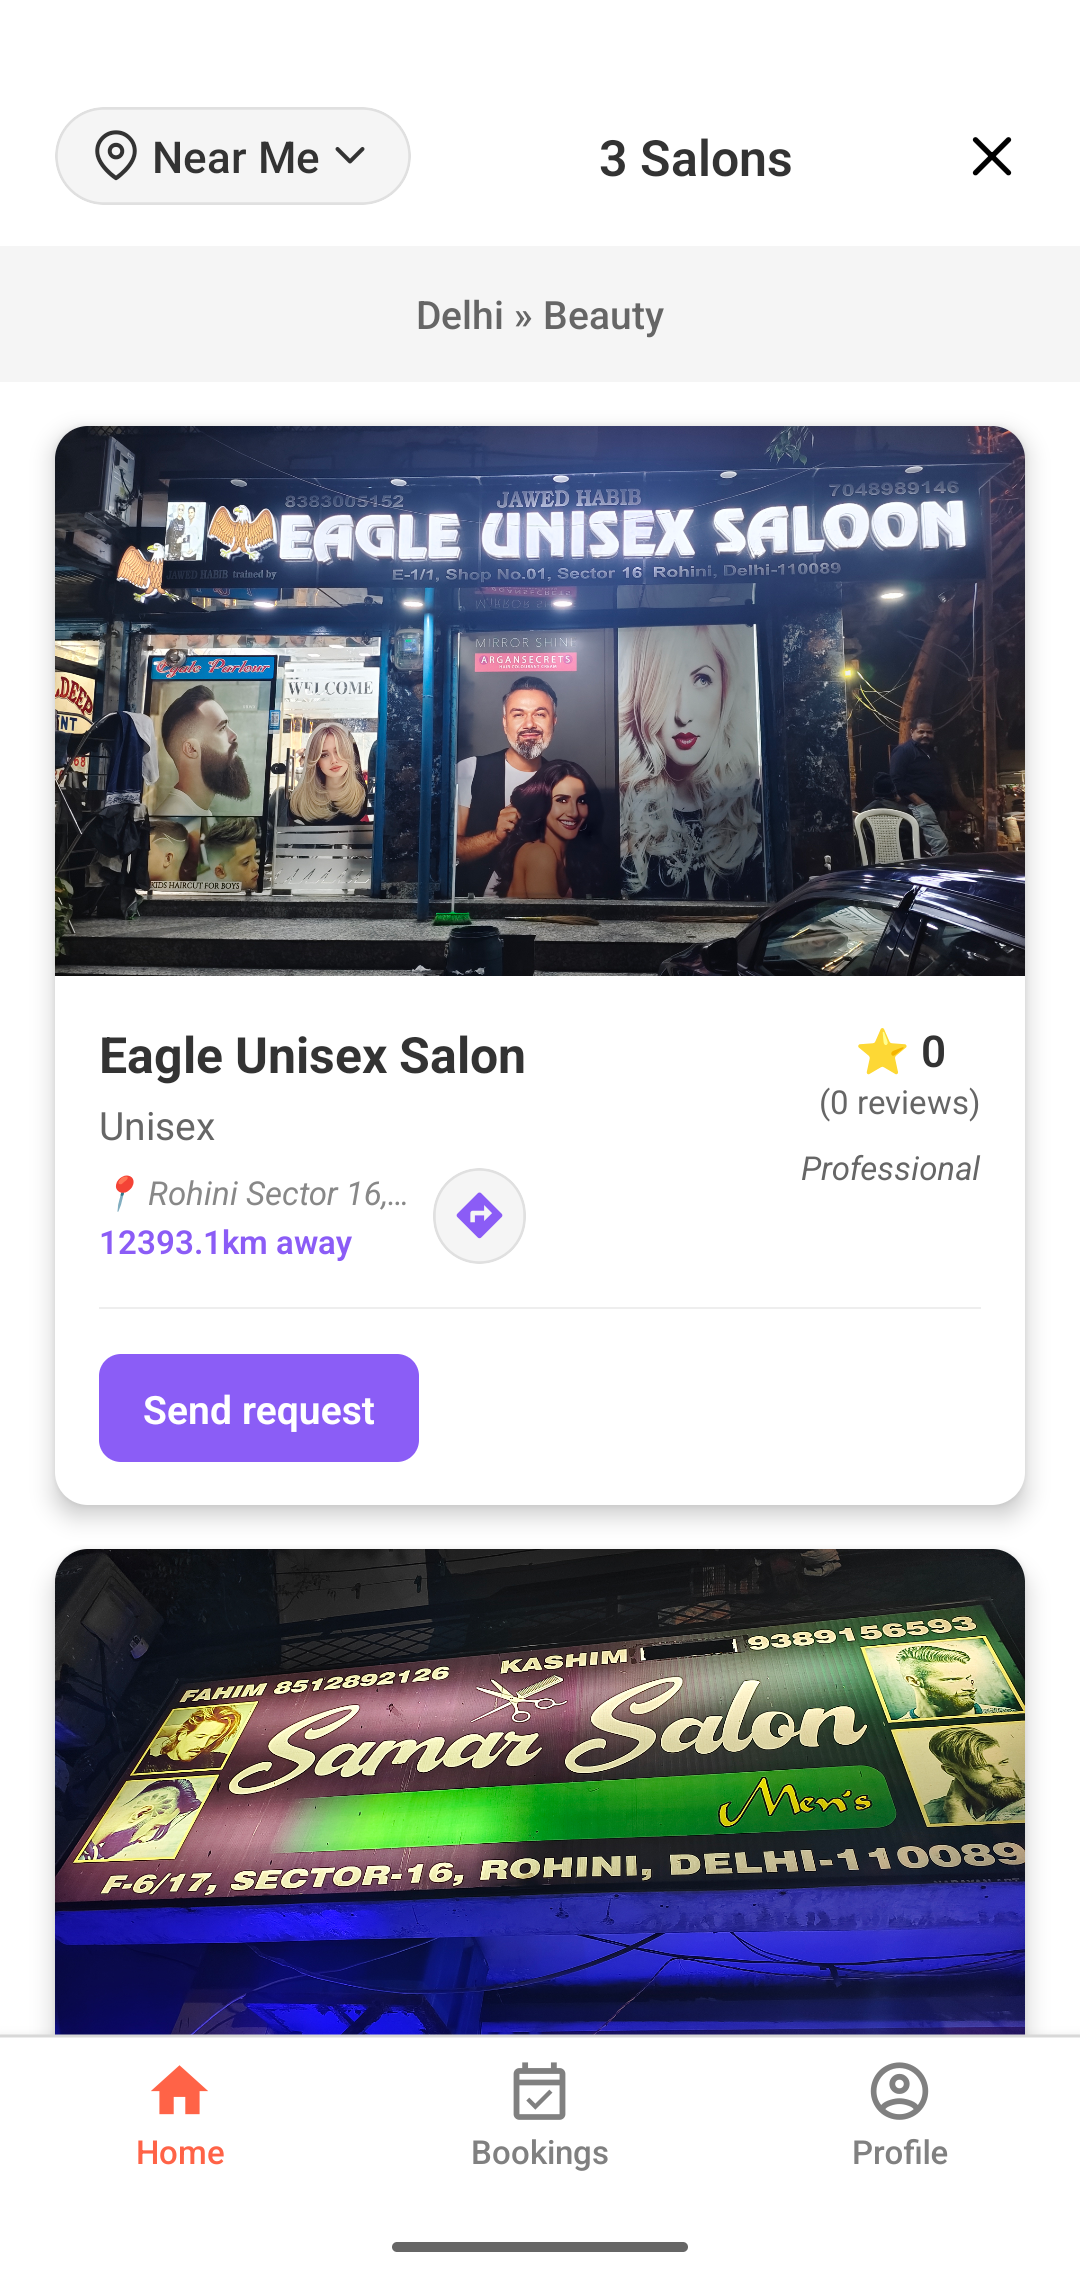
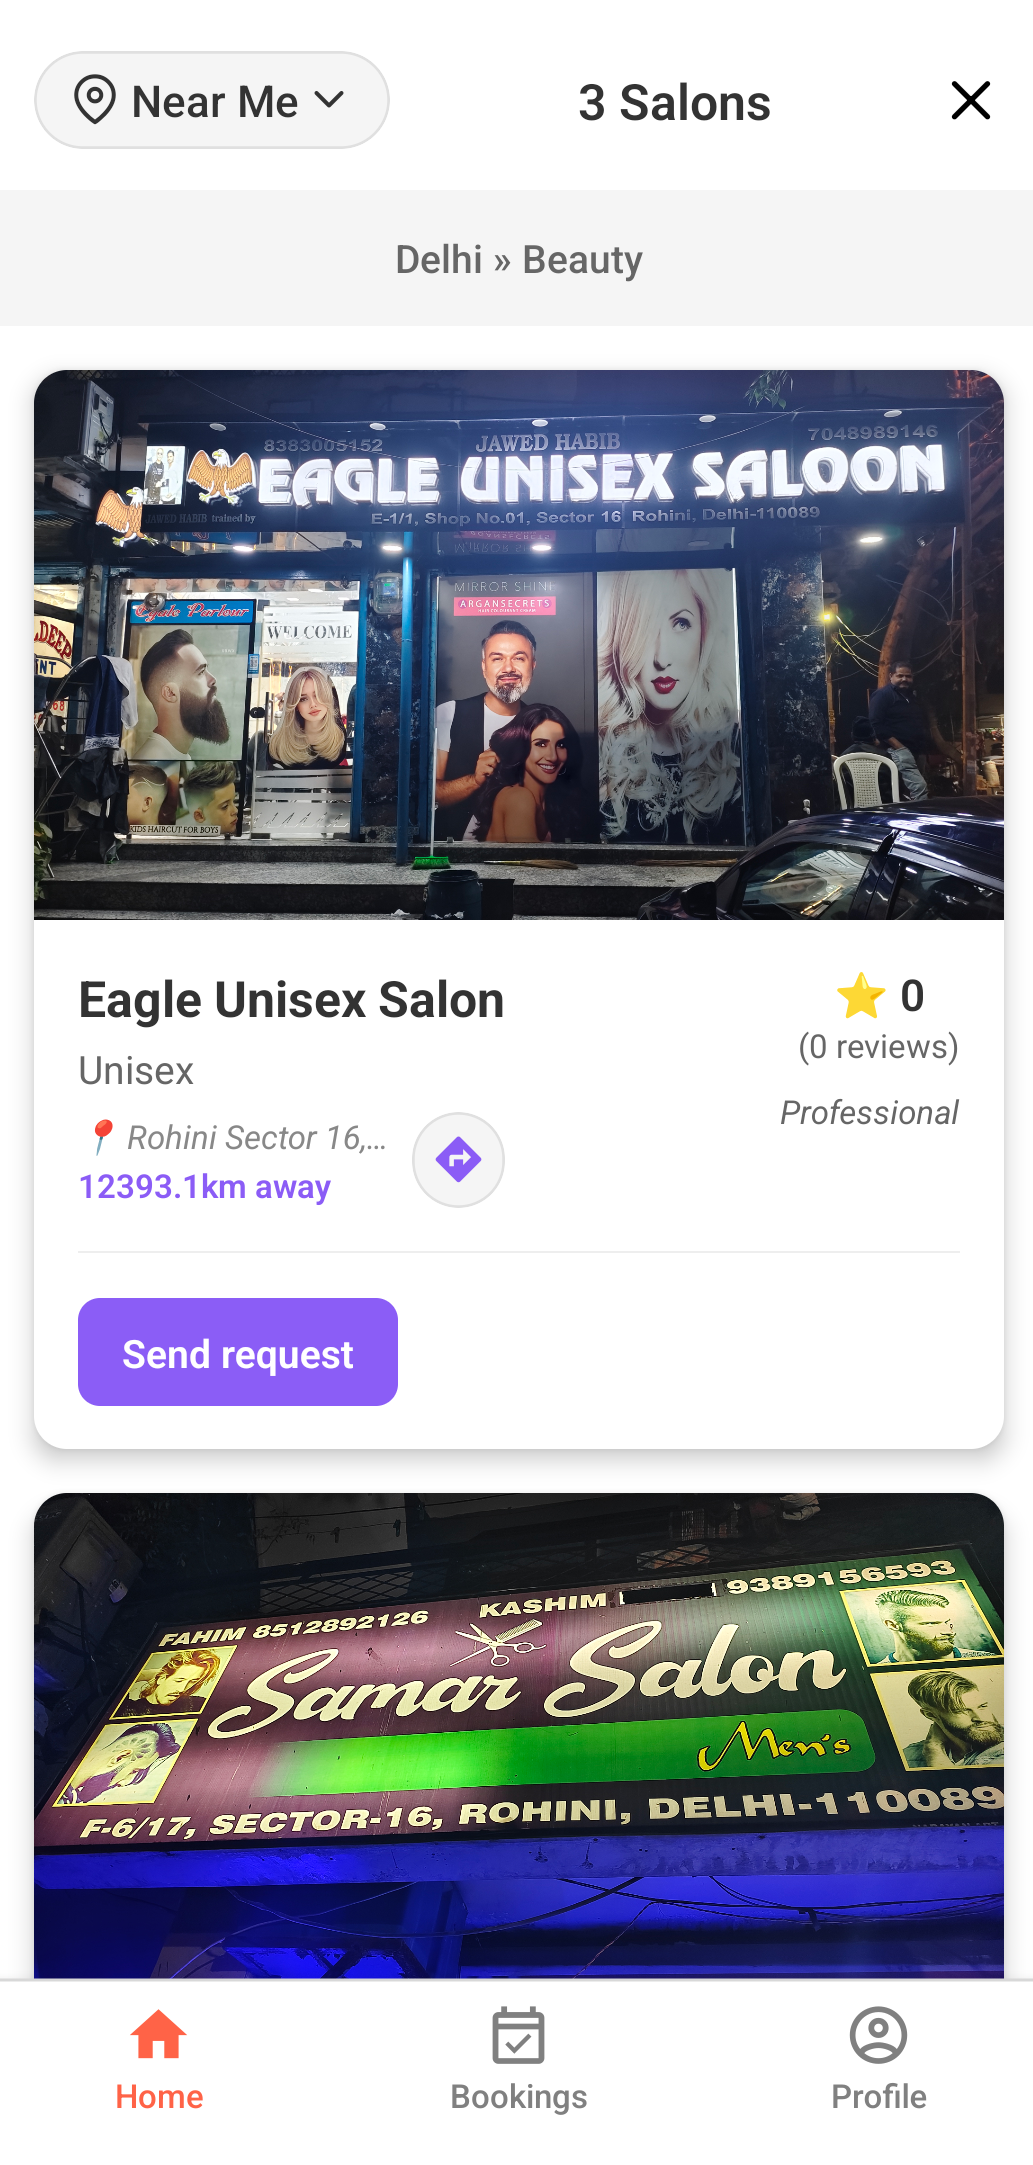
Updated image sources in index.html and modified Google Play badge link; removed social media links from contact section

diff --git a/index.html b/index.html
@@ -40,7 +40,7 @@
                     <div class="device-container">
                         <div class="device-mockup iphone6_plus portrait">
                             <div class="device" style="background-image:url('assets/img/iphone_6_plus_white_port.png');">
-                                <div class="screen"><img class="img-fluid" src="assets/img/demo-screen-1.jpg"></div>
+                                <div class="screen"><img class="img-fluid" src="assets/img/screenshots/11.png"></div>
                                 <div class="button"></div>
                             </div>
                         </div>
@@ -55,7 +55,7 @@
                 <div class="col-md-8 mx-auto">
                     <h2 class="section-heading">Discover what all the buzz is about!</h2>
                     <p>Our app is available on any mobile device! Download now to get started!</p>
-                    <div class="badges"><a class="badge-link" href="#"><img src="assets/img/google-play-badge.svg"></a><a class="badge-link" href="#"><img src="assets/img/app-store-badge.svg"></a></div>
+                    <div class="badges"><a class="badge-link" href="https://play.google.com/store/apps/details?id=experts.greenpolo.app&hl=en_IN" target="_blank" rel="noopener noreferrer"><img src="assets/img/google-play-badge.svg" alt="Get it on Google Play"></a><!-- <a class="badge-link" href="#"><img src="assets/img/app-store-badge.svg"></a> --></div>
                 </div>
             </div>
         </div>
@@ -72,7 +72,7 @@
                     <div class="device-container">
                         <div class="device-mockup iphone6_plus portrait">
                             <div class="device" style="background-image:url('assets/img/iphone_6_plus_white_port.png');">
-                                <div class="screen"><img class="img-fluid" src="assets/img/screenshots/11.png"></div>
+                                <div class="screen"><img class="img-fluid" src="assets/img/screenshots/f3.png"></div>
                             </div>
                         </div>
                     </div>
@@ -121,11 +121,11 @@
     <section class="bg-primary contact" id="contact">
         <div class="container">
             <h2><span>We&nbsp;</span><i class="fa fa-heart"></i><span>&nbsp;new friends!</span></h2>
-            <ul class="list-inline list-social">
+            <!-- <ul class="list-inline list-social">
                 <li class="list-inline-item social-twitter"><a href="#"><i class="fa fa-twitter"></i></a></li>
                 <li class="list-inline-item social-facebook"><a href="#"><i class="fa fa-facebook"></i></a></li>
                 <li class="list-inline-item social-google-plus"><a href="#"><i class="fa fa-google-plus"></i></a></li>
-            </ul>
+            </ul> -->
         </div>
     </section>
     <footer>
